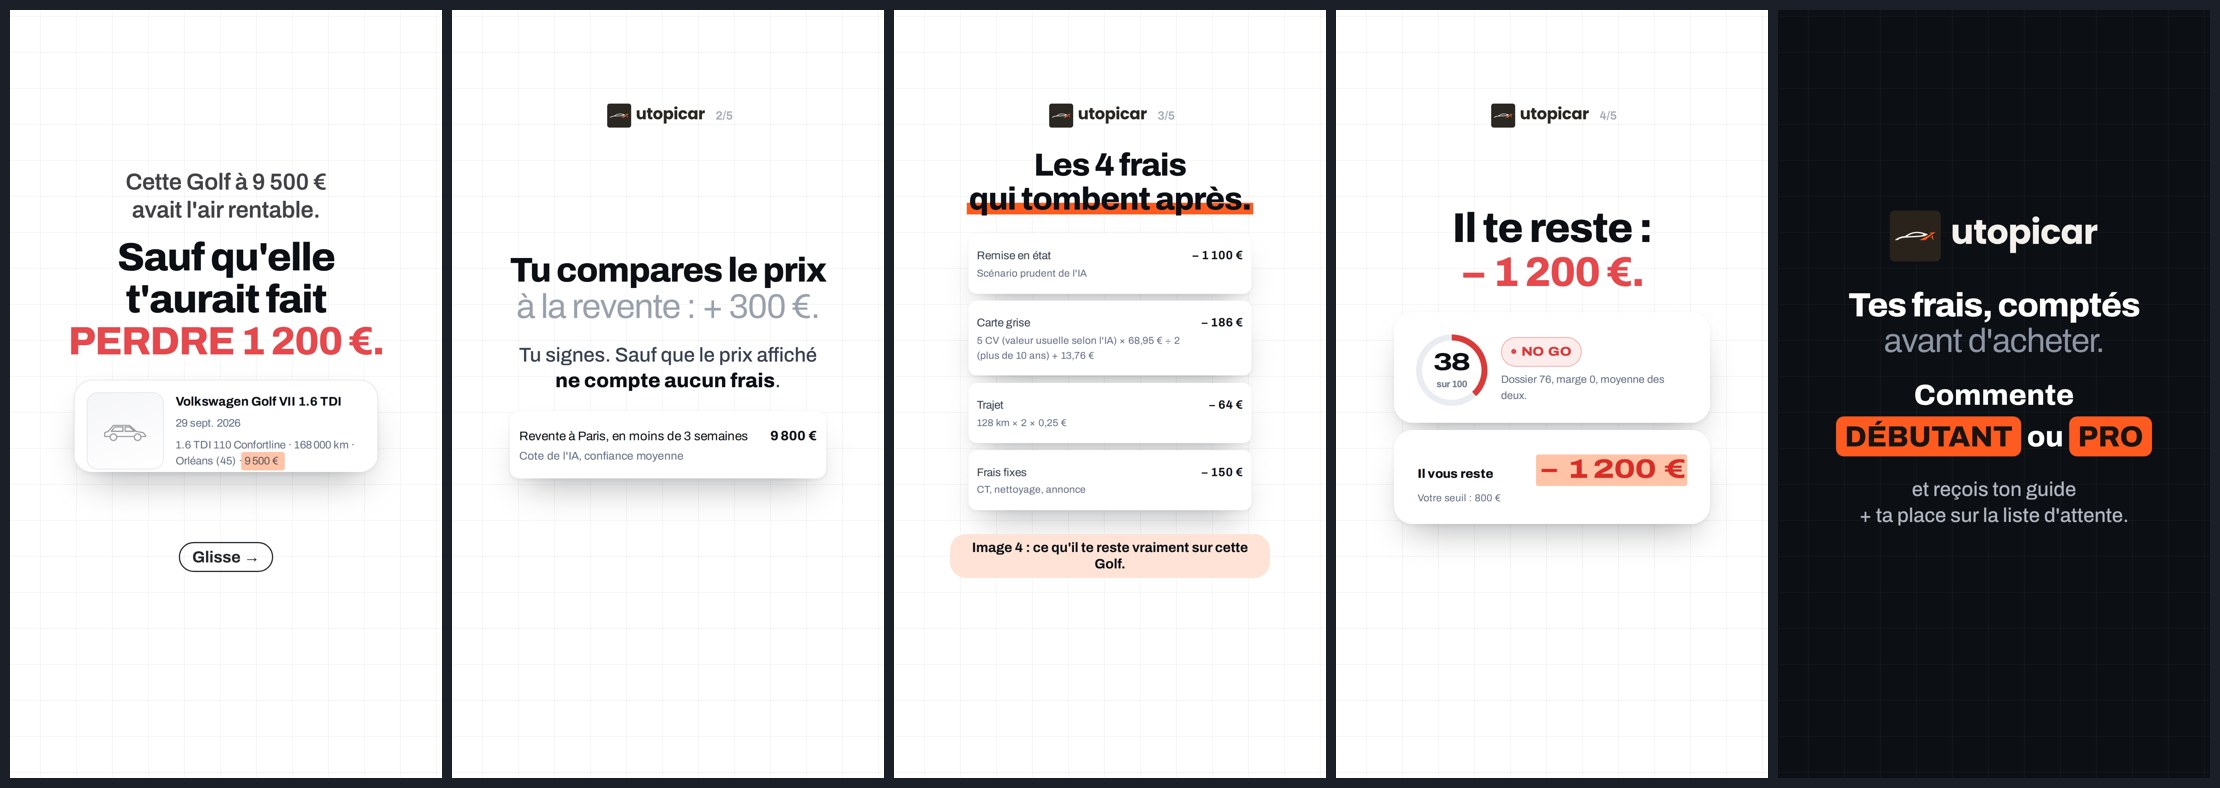
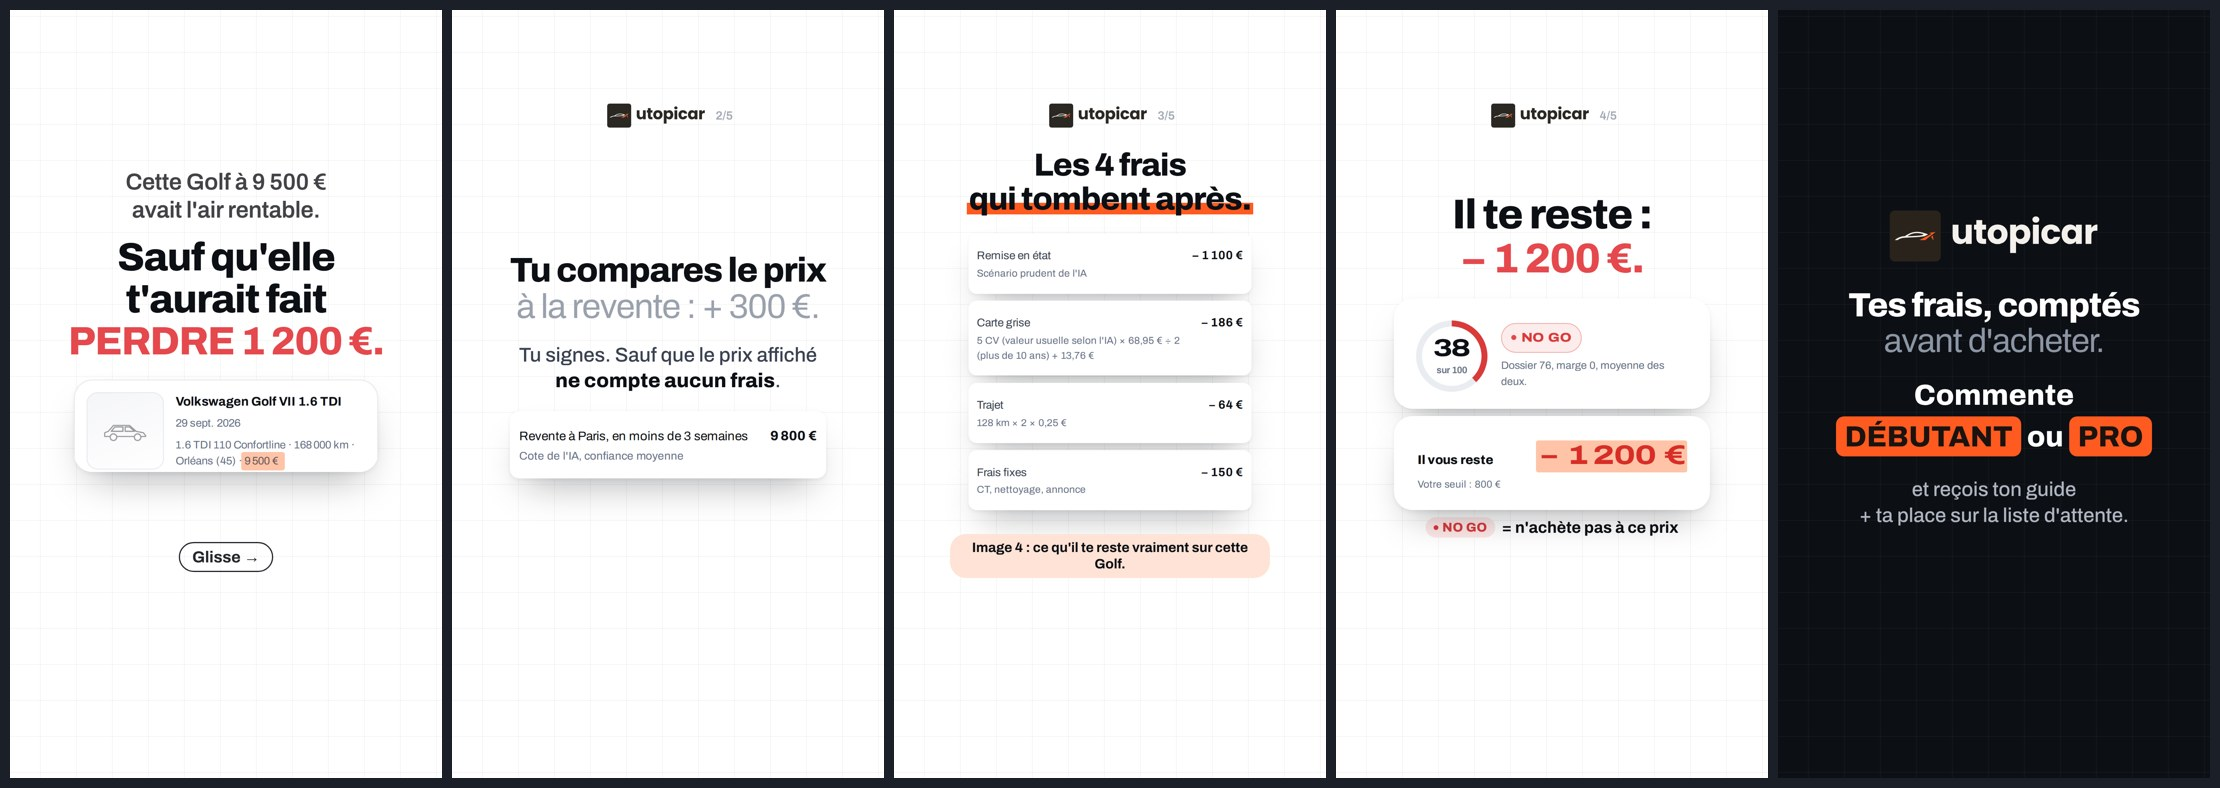
Carrousels : verdicts GO / NO GO écrits en clair (« n'achète pas », « tu peux l'acheter ») + légende sous chaque capture qui montre le verdict
Claude-Session: https://claude.ai/code/session_01FEy7LKaW7Hm3ZRZRRVomsp

Changed region(s): [[0.6216, 0.3959, 0.777, 0.7005], [0.6527, 0.2437, 0.7459, 0.3655]]

diff --git a/video/carousels/slide.html b/video/carousels/slide.html
@@ -48,6 +48,12 @@ body{font-family:'Archivo',sans-serif;-webkit-font-smoothing:antialiased;--ink:#
 .check{display:flex;flex-direction:column;gap:22px;align-items:flex-start;text-align:left}
 .check{gap:34px}.check div{font-weight:800;font-size:76px;color:var(--ink);display:flex;gap:22px;align-items:center;white-space:nowrap}
 .check div::before{content:'';width:64px;height:64px;border:7px solid var(--acc);border-radius:14px;flex:none}
+/* légende du verdict de l'outil : « NO GO » / « GO » traduits en clair sous la capture */
+.keys{display:flex;flex-direction:column;gap:14px;align-items:center}
+.key{display:flex;align-items:center;gap:16px;font-weight:700;font-size:40px;color:var(--ink);white-space:nowrap}
+.key i{font-style:normal;display:inline-flex;align-items:center;gap:10px;padding:8px 20px;border-radius:30px;font-weight:800;font-size:32px;letter-spacing:.02em}
+.key i::before{content:'';width:12px;height:12px;border-radius:6px;background:currentColor}
+.key.nogo i{background:#FDE7E7;color:#D93A3A}.key.go i{background:#E4F6EC;color:#0A8F55}
 #s.orange .check div::before{border-color:#1A1310}
 </style>
 </head>
@@ -108,6 +114,12 @@ if (SL.ui) {
     else await ui(wrap, g);
   }
   if (SL.uiFirst) box.insertBefore(wrap, box.querySelector('.title'));
+  const keys = [...new Set(SL.ui.flat().map(u => u.key).filter(Boolean))];
+  if (keys.length) {
+    const kw = el('div', 'keys', wrap);
+    const T = { nogo: ['NO GO', "= n'achète pas à ce prix"], go: ['GO', '= rentable, tu peux acheter'] };
+    for (const k of keys) el('div', 'key ' + k, kw, `<i>${T[k][0]}</i><span>${T[k][1]}</span>`);
+  }
 }
 if (SL.body2) el('div', 'body', box, md(SL.body2));
 if (N === 4) {

diff --git a/video/carousels/build.py b/video/carousels/build.py
@@ -8,9 +8,9 @@ HERE = os.path.dirname(os.path.abspath(__file__))
 # --- morceaux de vraie interface (rect = [x, y, w, h] en px CSS) ---
 def U(ui, r=None, w=770, hl=None, **kw): return dict(ui=ui, r=r, w=w, hl=hl or [], **kw)
 GOLF_TOP = lambda w=770, hl=True: U('dcard1', [8, 8, 362, 110], w, [[211, 97, 44, 16]] if hl else [])
-GOLF = lambda w=770: U('dcard1', [8, 8, 362, 215], w, [[184, 154, 120, 22]])
-CLIO = lambda w=770: U('dcard2', [8, 8, 362, 215], w, [[184, 154, 120, 22]])
-TKTOP = lambda w=770: U('ticket', [0, 0, 340, 98], w, pad=16)
+GOLF = lambda w=770: U('dcard1', [8, 8, 362, 215], w, [[184, 154, 120, 22]], key='nogo')
+CLIO = lambda w=770: U('dcard2', [8, 8, 362, 215], w, [[184, 154, 120, 22]], key='go')
+TKTOP = lambda w=770: U('ticket', [0, 0, 340, 98], w, pad=16, key='nogo')
 TKTOT = lambda w=770: U('ticket', [0, 442, 340, 76], w, [[155, 456, 172, 32]], pad=18)
 TKLINES = lambda w=760: U('ticket', [0, 90, 340, 340], w, rad=18, pad=12)
 PLAF = lambda w=770: U('plaf', [8, 8, 320, 130], w, [[18, 50, 108, 30]])
@@ -74,8 +74,8 @@ car('prix-max', 'white', "N'appelle jamais le vendeur d'une voiture avant d'avoi
 car('go-nogo', 'orange', "Golf ou Clio : une seule te fait gagner de l'argent. Tu aurais choisi laquelle ? Réponse en commentaire avant de glisser.", [
   S(kicker="Golf ou Clio :", title="une seule\nte fait ==GAGNER==\nde l'argent.", size=124, ui=[GOLF_TOP(640, False), CLIO_TOP(640, False)]),
   S(title="Tu regardes le prix\n_et le kilométrage._", body="C'est justement le piège : ce qui compte, c'est **ce qu'il te reste après frais**."),
-  S(title="La Golf :\n[rd]38/100. NO GO.[/rd]", ui=[GOLF()], relance="Image 4 : l'écart entre les deux dépasse 3 000 €."),
-  S(title="La Clio :\n==92/100. GO.==", ui=[CLIO()], body2="**+ 1 932 €** de marge estimée, contre **− 1 200 €** pour la Golf."),
+  S(title="La Golf :\n[rd]n'achète pas.[/rd]", ui=[GOLF()], body2="Note **38/100**. Après frais, tu perds **1 200 €**.", relance="Image 4 : l'écart entre les deux dépasse 3 000 €."),
+  S(title="La Clio :\n==tu peux l'acheter.==", ui=[CLIO()], body2="Note **92/100**. Il te reste **+ 1 932 €**, la Golf te coûtait **1 200 €**."),
   S(title="Colle tes deux annonces :\n_le verdict en 2 secondes._"),
 ]),
 car('sous-la-cote', 'white', "Une Clio à 1 450 € sous la cote publiée il y a 12 minutes. Les bonnes affaires en voiture d'occasion partent vite : voilà comment les voir avant les autres.", [
@@ -207,7 +207,7 @@ car('calcul-de-tete', 'white', "Tu calcules tes frais de tête ? Calcule la cart
 car('ma-journee', 'dark', "9 h : une Clio sort 1 450 € sous la cote. 9 h 02 : tu sais déjà si elle est rentable. Ta journée d'achat-revente, version simple.", [
   S(kicker="9 h : une Clio sort 1 450 € sous la cote.", title="9 h 02 :\ntu sais si elle\nest ==RENTABLE==.", size=124, ui=[LIVE_PRIX(760)]),
   S(title="Sans outil, à 9 h 02,\n_tu es encore sur ta calculette._", size=96),
-  S(title="9 h 02 :\n==GO, 92/100.==", ui=[CLIO(740)], relance="Image 4 : ta fin de journée, en un écran."),
+  S(title="9 h 02 :\n==tu peux l'acheter.==", ui=[CLIO(740)], body2="Note **92/100**, il te reste **+ 1 932 €**.", relance="Image 4 : ta fin de journée, en un écran."),
   S(title="18 h :\n_ta marge du mois._", ui=[KPI(3, 500)]),
   S(title="Moins de calculs,\n_plus d'affaires._"),
 ]),
@@ -218,9 +218,9 @@ car('marge-moyenne', 'white', "Tu connais le prix de vente de chaque voiture, ma
   S(title="Voiture\n_par voiture._", ui=[MCHART(540, 740)]),
   S(title="Tu sais ce que chaque voiture\n_te rapporte vraiment._"),
 ]),
-car('pourquoi-38', 'orange', "Cette Golf a un bon dossier. Pourtant, elle est NO GO : 38/100. Voilà comment se calcule la note.", [
-  S(kicker="Cette Golf a un bon dossier.", title="Pourtant, elle est\n[rd]NO GO : 38/100.[/rd]", size=124, ui=[GOLF_TOP(700, False)]),
-  S(title="La note =\n_moyenne de deux notes._", ui=[TKTOP()]),
+car('pourquoi-38', 'orange', "Cette Golf a un bon dossier. Pourtant, l'outil te dit de ne pas l'acheter : 38/100. Voilà d'où vient la note.", [
+  S(kicker="Cette Golf a un bon dossier.", title="Pourtant, elle\nte [rd]COÛTE[/rd] 1 200 €.", size=124, ui=[GOLF_TOP(700, False)]),
+  S(title="Sa note : 38/100.\n_La moyenne de deux notes._", ui=[TKTOP()]),
   S(title="Dossier : 76/100.", body="Les papiers et l'annonce sont **plutôt bons**.", relance="Image 4 : la note qui fait tout chuter."),
   S(title="Marge : 0/100.", body="Après frais, **il ne reste rien**.", ui=[TKTOT()]),
   S(title="Une note que tu comprends,\n_sur chaque annonce._"),

diff --git a/video/carousels/captions.md b/video/carousels/captions.md
@@ -171,7 +171,7 @@ Tu connais le prix de vente de chaque voiture, mais ta marge par voiture, tu la 
 #achatrevente #voitureoccasion #marchandvo #achatreventeauto #utopicar
 
 ## 25 · pourquoi-38
-Cette Golf a un bon dossier. Pourtant, elle est NO GO : 38/100. Voilà comment se calcule la note.
+Cette Golf a un bon dossier. Pourtant, l'outil te dit de ne pas l'acheter : 38/100. Voilà d'où vient la note.
 
 👉 Commente DÉBUTANT ou PRO : tu reçois le guide qui correspond à ton niveau + ta place sur la liste d'attente.
 
